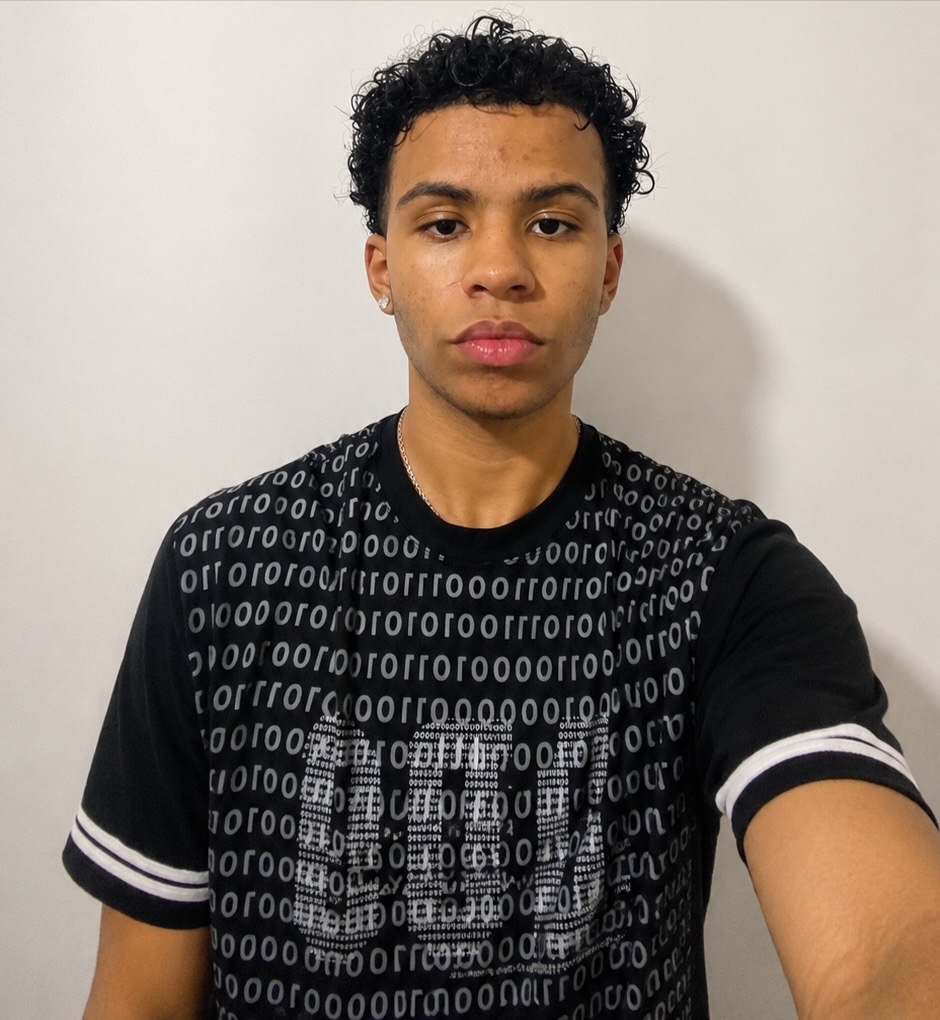
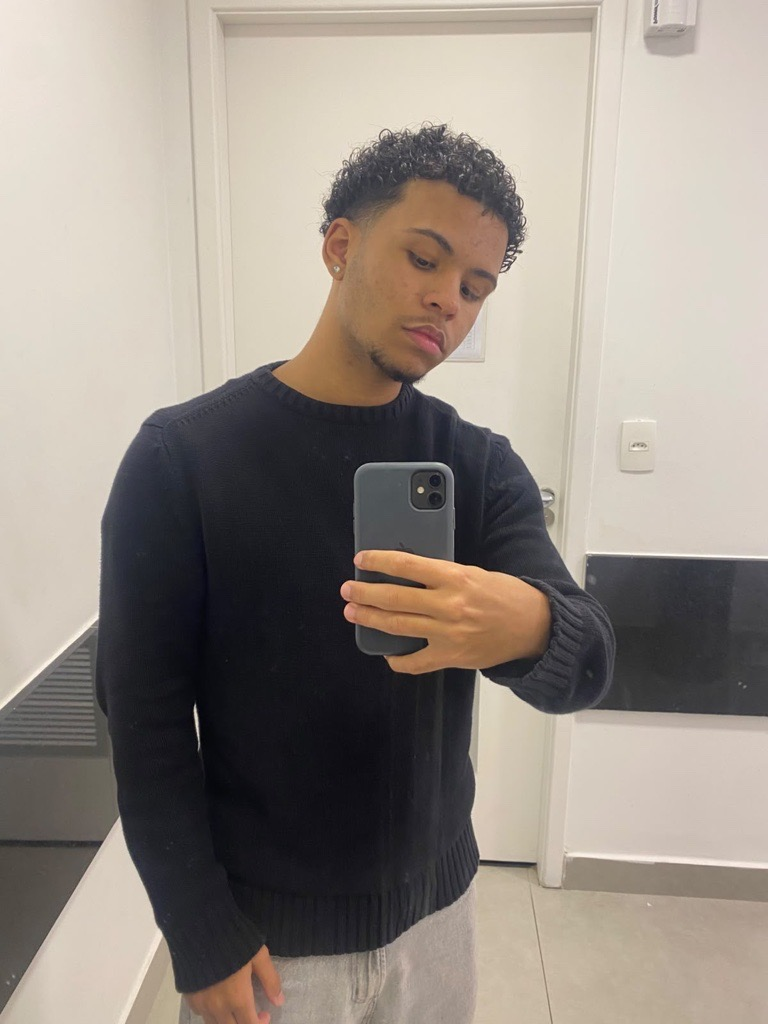
feat: adiciona links de LinkedIn e GitHub dos integrantes

diff --git a/Loyalty-Platform/src/routes/Integrantes/index.tsx b/Loyalty-Platform/src/routes/Integrantes/index.tsx
@@ -14,17 +14,17 @@ type Integrante = {
 };
 
 const integrantes: Integrante[] = [
-  { id: 1, nome: 'Andrei Oliveira de Sousa', rm: '573373', foto: fotoAndrei, linkedin: '', github: ''},
-  { id: 2, nome: 'Felipe Coelho da Fonseca', rm: '572133', foto: fotoFelipe,   linkedin: '', github: '' },
-  { id: 3, nome: 'Henrique Soares Pereira', rm: '569898', foto: fotoHenrique, linkedin: '', github: '' },
-  { id: 4, nome: 'Luiz Felipe Lourenço da Silva', rm: '572576', foto: fotoLuiz,   linkedin: '', github: '' },
+  { id: 1, nome: 'Andrei Oliveira de Sousa', rm: '573373', foto: fotoAndrei, linkedin: 'https://www.linkedin.com/in/andrei-sousa-55662825a/', github: 'https://github.com/andreisou-dev'},
+  { id: 2, nome: 'Felipe Coelho da Fonseca', rm: '572133', foto: fotoFelipe,   linkedin: 'https://www.linkedin.com/in/felipe-coelho-80b78a394/', github: 'https://github.com/devfcoelho' },
+  { id: 3, nome: 'Henrique Soares Pereira', rm: '569898', foto: fotoHenrique, linkedin: 'https://www.linkedin.com/in/henrique-soares-pereira/', github: 'https://github.com/Henriquesope' },
+  { id: 4, nome: 'Luiz Felipe Lourenço da Silva', rm: '572576', foto: fotoLuiz,   linkedin: 'https://www.linkedin.com/in/lfelipelourenco/', github: 'https://github.com/devlipee' },
 ];
 
 export default function Integrantes(){
   return (
     <main className="min-h-screen bg-[#08081A] px-6 py-16">
-      <section className="max-w-3x1 mx-auto text-center"> {/* ALINHA A CAIXA DO CONTEÚDO NA PÁGINA*/}
-        <h1 className="text-3x1 md:text-4x1 font-bold text-white"> {/* RESPONSIVIDADE*/}
+      <section className="max-w-3xl mx-auto text-center"> {/* ALINHA A CAIXA DO CONTEÚDO NA PÁGINA*/}
+        <h1 className="text-3xl md:text-4x1 font-bold text-white"> {/* RESPONSIVIDADE*/}
           Os nossos <span className="text-[#FC3E8E]">integrantes:</span>
         </h1>
         <p className="mt-6 text-gray-300 leading-relaxed">

diff --git a/Loyalty-Platform/src/main.tsx b/Loyalty-Platform/src/main.tsx
@@ -9,7 +9,7 @@ import Duvidas from './routes/Duvidas'
 import Contato from './routes/Contato'
 import SolucaoAplicada from './routes/SolucaoAplicada'
 import Error from './routes/Error'
-import '@fontsource/sora/400.css'
+import '@fontsource/sora/400.css' 
 import '@fontsource/sora/600.css'
 import '@fontsource/sora/700.css'
 import './index.css'
